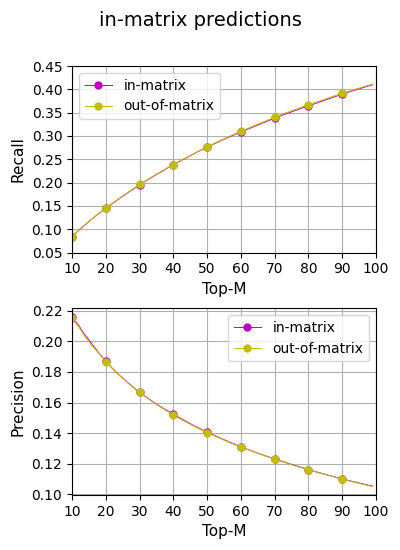
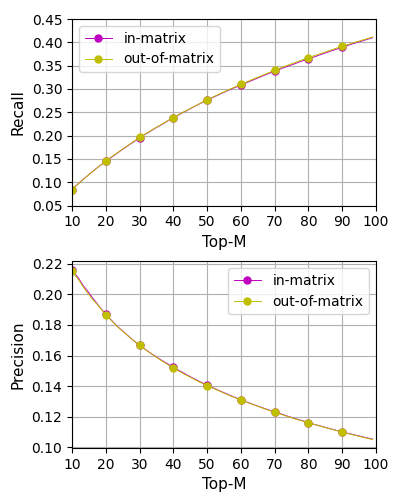
update

Changed region(s): [[0.03, 0.0, 0.99, 0.9841]]

diff --git a/README.md b/README.md
@@ -11,6 +11,9 @@ Technologies: Python(Numpy, Scipy, Numba, Pandas, Matplotlib, NLTK), SQL, Google
 
 The most attention is put on Time & Space complexity of the model, thus scientific computing libraries such as Numpy and Scipy are used in nearly all operations along with Numba libray which boosts the computational speed by parallelizing the numpy-heavy functions with JIT(just-in-time compilation). After the model implementation is completed, it is then deployed to Google Cloud's Virtual Machine with high performance CPUs considering that Numpy/Scipy environments are based on BLAST - a high-performance computing architecture for CPU.   
 
+Some results from experimental studies.
+![Recall&Precision](./CTMP/experimentation/recall&precision/NFLX/p=0.7/k=50/1/result.png)
+
 Below, the most important directories are illustrated for the purpose of overview:
 ```
 ├── CTMP
